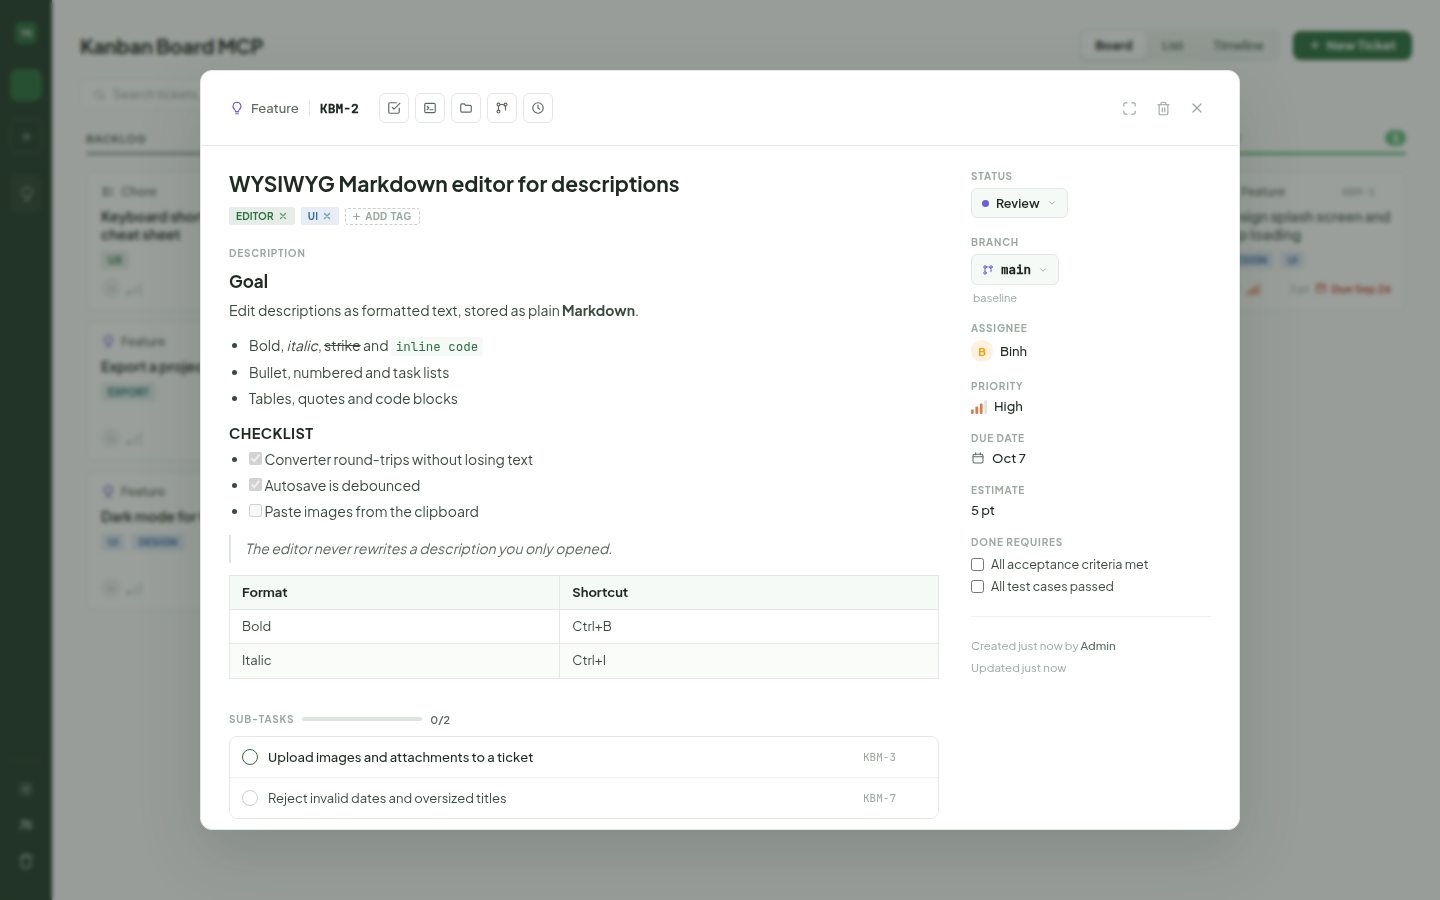
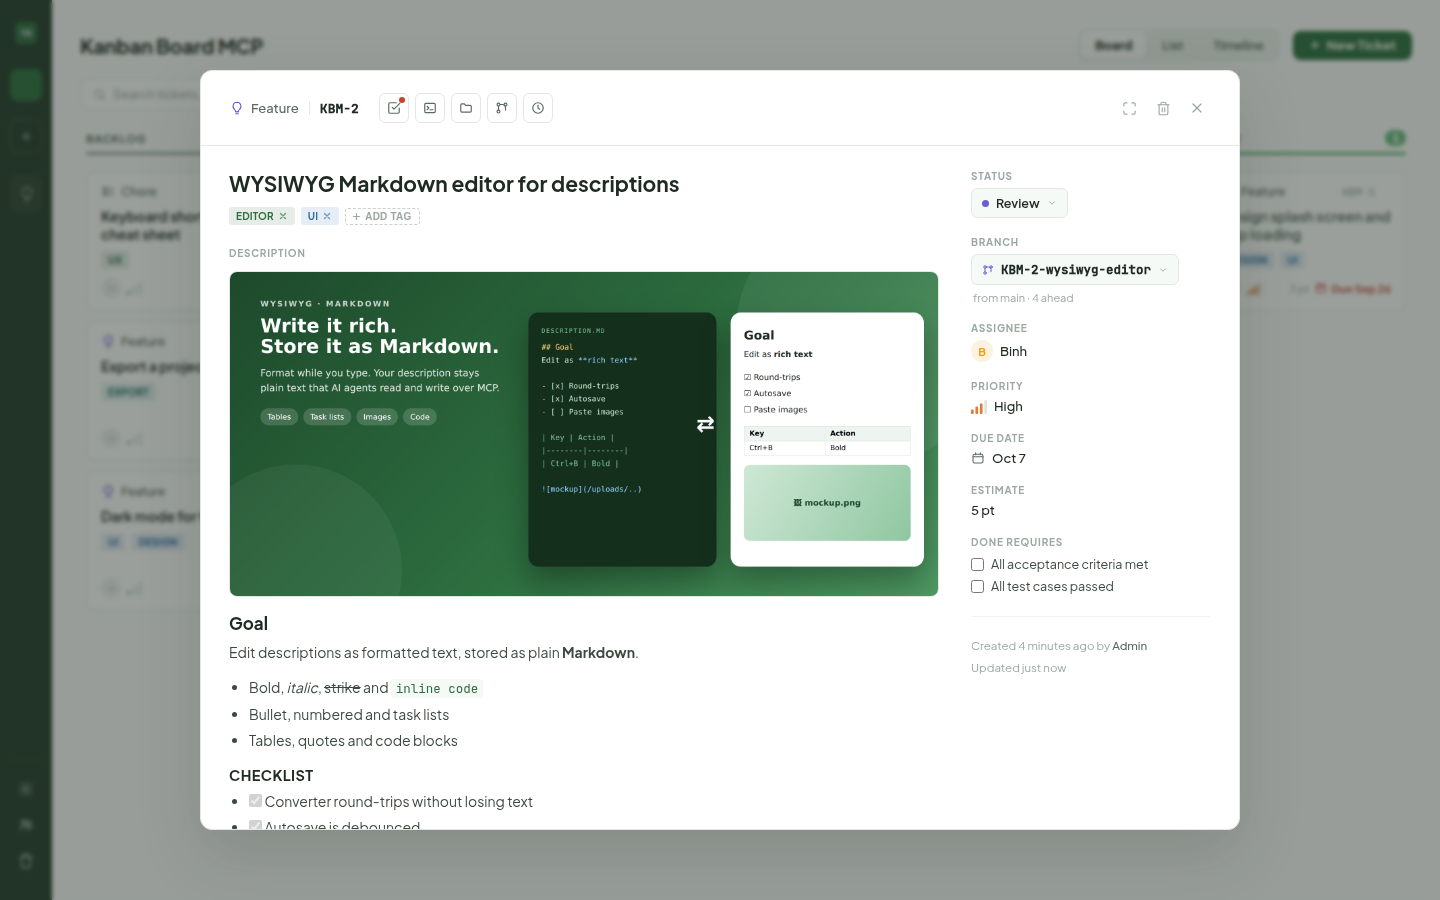
docs(readme): show Markdown with an embedded image, test cases and git branches
Claude-Session: https://claude.ai/code/session_01FqJmvWVF95P7TghdMKSuKK

Changed region(s): [[0.1562, 0.28, 0.6562, 0.9333], [0.6875, 0.28, 0.8125, 0.3422], [0.7188, 0.7156, 0.7812, 0.7467]]

diff --git a/README.md b/README.md
@@ -33,8 +33,20 @@
 ### Board View
 ![Board View](docs/screenshots/board-overview.png)
 
-### Ticket Detail
+### Ticket Detail — WYSIWYG Markdown with images
+Write rich text (tables, task lists, code, pasted images); it is stored as plain Markdown.
+
 ![Ticket Detail](docs/screenshots/ticket-modal.png)
+
+### Test Cases
+Track pass / fail / running per ticket, including child tickets, and optionally block *Done* until every case passes.
+
+![Test Cases](docs/screenshots/test-cases.png)
+
+### Git Branches
+Link a ticket to a real branch, see its commits against `main`, and check it out from the UI.
+
+![Git Branches](docs/screenshots/git-branches.png)
 
 ### List View
 ![List View](docs/screenshots/list-view.png)
